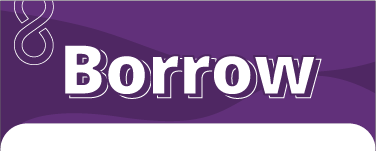
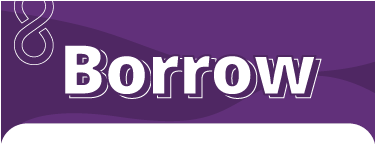
Fixed header and coin problems

Changed region(s): [[0.0, 0.0, 1.0, 1.0]]

diff --git a/screens/HomeScreen.js b/screens/HomeScreen.js
@@ -104,7 +104,6 @@ export default function HomeScreen({ navigation }) {
   }
 
   return (
-    <View style={styles.container}>
       <ScrollView
         style={{ backgroundColor: colors.white }}
         showsVerticalScrollIndicator={false}
@@ -237,21 +236,17 @@ export default function HomeScreen({ navigation }) {
           </View>
         </View>
       </ScrollView>
-    </View>
   );
 }
 
 const styles = StyleSheet.create({
-  container: {
-    flex: 1,
-  },
   headerContainer: {
     flex: 1,
   },
   header: {
     flex: 1,
     flexDirection: "row",
-    width: Dimensions.get("window").width,
+    width: Dimensions.get("screen").width+2,
     justifyContent: "center",
     alignItems: "center",
     height: 150,
@@ -259,6 +254,7 @@ const styles = StyleSheet.create({
     // marginTop: Constants.statusBarHeight,
     marginBottom: 32,
     padding: 20,
+    backgroundColor: 'red'
   },
   welcomeContainer: {
     flex: 1,

diff --git a/screens/return-screens/ReturnStatusScreen.js b/screens/return-screens/ReturnStatusScreen.js
@@ -6,6 +6,7 @@ import {
   TouchableOpacity,
   ScrollView,
   Image,
+  Dimensions,
 } from "react-native";
 import colors from "../../assets/colors";
 import { globalStyles } from "../../assets/globalStyles";
@@ -178,7 +179,10 @@ export default function ReturnStatusScreen({ navigation }) {
 
   return (
     <ScrollView style={styles.container}>
-      <Image source={require("../../assets/AppImages/returnHeader.png")} />
+      <Image 
+        source={require("../../assets/AppImages/returnHeader.png")} 
+        style={{ width: Dimensions.get("window").width+4, alignSelf: 'center' }}
+      />
 
       {/* <Text style={globalStyles.header}>Return</Text> */}
       <View style={styles.box}>
@@ -220,6 +224,7 @@ const data = [
 const styles = StyleSheet.create({
   container: {
     backgroundColor: "#fff",
+    
   },
   box: {
     borderWidth: 2,

diff --git a/screens/return-screens/ReturnQRScreen.js b/screens/return-screens/ReturnQRScreen.js
@@ -45,7 +45,7 @@ export default function ReturnQRScreen({ navigation }) {
 
   return (
     
-    <View style={{ marginTop: Constants.statusBarHeight }}>
+    <View>
       <ScrollView
         style={{ backgroundColor: colors.white }}
         showsVerticalScrollIndicator={false}
@@ -53,7 +53,7 @@ export default function ReturnQRScreen({ navigation }) {
         <View style={styles.container}>
           <Image
             source={require("../../assets/AppImages/returnHeader.png")}
-            style={{ width: Dimensions.get("window").width }}
+            style={{ width: Dimensions.get("window").width+4 }}
           />
           <View style={styles.box}>
             <Image source={require("../../assets/AppImages/returnPicture.png")} />

diff --git a/screens/borrow-screens/BorrowSuccessfulScreen.js b/screens/borrow-screens/BorrowSuccessfulScreen.js
@@ -30,7 +30,7 @@ export default function BorrowSuccessfulScreen({ route, navigation }) {
       <ScrollView style={styles.container} showsVerticalScrollIndicator={false}>
         <Image
           source={require("../../assets/AppImages/borrowHeader.png")}
-          style={{ width: Dimensions.get("window").width, marginBottom: 50 }}
+          style={{ width: Dimensions.get("window").width+4, marginBottom: 50 }}
         />
         <SuccessBox numCups={numCups} numContainers={numContainers} />
         <FooterText />

diff --git a/screens/borrow-screens/BorrowSelectionScreen.js b/screens/borrow-screens/BorrowSelectionScreen.js
@@ -129,7 +129,7 @@ export default function BorrowSelectionScreen({ navigation, route }) {
         <View style={styles.container}>
           <Image
             source={require("../../assets/AppImages/borrowHeader.png")}
-            style={{ width: Dimensions.get("window").width, marginBottom: 50 }}
+            style={{ width: Dimensions.get("window").width+4, marginBottom: 50 }}
           />
           <View style={styles.box}>
             <Text style={styles.storeName}>{stall}</Text>

diff --git a/screens/return-screens/ReturnSuccessfulScreen.js b/screens/return-screens/ReturnSuccessfulScreen.js
@@ -35,7 +35,7 @@ export default function ReturnSuccessfulScreen({ route }) {
       <ScrollView style={styles.container} showsVerticalScrollIndicator={false}>
         <Image
           source={require("../../assets/AppImages/returnHeader.png")}
-          style={{ width: Dimensions.get("window").width, marginBottom: 50 }}
+          style={{ width: Dimensions.get("window").width+4, alignSelf: "center", marginBottom: 50 }}
         />
         <SuccessBox
           numCups={numCups}

diff --git a/screens/byo-screens/BYOSuccessScreen.js b/screens/byo-screens/BYOSuccessScreen.js
@@ -34,7 +34,7 @@ export default function BYOSuccessScreen({ route }) {
       <ScrollView style={styles.container} showsVerticalScrollIndicator={false}>
         <Image
           source={require("../../assets/AppImages/byoHeader.png")}
-          style={{ width: Dimensions.get("window").width, marginBottom: 50 }}
+          style={{ width: Dimensions.get("window").width+4, marginBottom: 50 }}
         />
         <SuccessBox
           numCups={numCups}

diff --git a/screens/borrow-screens/BorrowUnsuccessfulScreen.js b/screens/borrow-screens/BorrowUnsuccessfulScreen.js
@@ -14,7 +14,7 @@ export default function BorrowUnsuccessfulScreen() {
     <ScrollView style={styles.container} showsVerticalScrollIndicator={false}>
       <Image
         source={require("../../assets/AppImages/borrowHeader.png")}
-        style={{ width: Dimensions.get("window").width, marginBottom: 50 }}
+        style={{ width: Dimensions.get("window").width+4, marginBottom: 50 }}
       />
       <UnsuccessBox />
     </ScrollView>

diff --git a/screens/return-screens/ReturnUnsuccessfulScreen.js b/screens/return-screens/ReturnUnsuccessfulScreen.js
@@ -14,7 +14,7 @@ export default function ReturnUnsuccessfulScreen() {
     <ScrollView style={styles.container} showsVerticalScrollIndicator={false}>
       <Image
         source={require("../../assets/AppImages/returnHeader.png")}
-        style={{ width: Dimensions.get("window").width, marginBottom: 50 }}
+        style={{ width: Dimensions.get("window").width+4, marginBottom: 50 }}
       />
       <UnsuccessBox />
     </ScrollView>

diff --git a/screens/byo-screens/BYOSelectionScreen.js b/screens/byo-screens/BYOSelectionScreen.js
@@ -122,7 +122,7 @@ export default function BYOSelectionScreen({ navigation, route }) {
         <View style={styles.container}>
           <Image
             source={require("../../assets/AppImages/byoHeader.png")}
-            style={{ width: Dimensions.get("window").width, marginBottom: 50 }}
+            style={{ width: Dimensions.get("window").width+4, marginBottom: 50 }}
           />
 
           <View style={styles.box}>

diff --git a/screens/byo-screens/BYOUnsuccessfulScree.js b/screens/byo-screens/BYOUnsuccessfulScree.js
@@ -25,7 +25,7 @@ export default function BYOUnsuccessfulScreen() {
       <View style={styles.container}>
         <Image
           source={require("../../assets/AppImages/byoHeader.png")}
-          style={{ width: Dimensions.get("window").width, marginBottom: 50 }}
+          style={{ width: Dimensions.get("window").width+4, marginBottom: 50 }}
         />
         <UnsuccessBox />
       </View>

diff --git a/screens/borrow-screens/BorrowQRScreen.js b/screens/borrow-screens/BorrowQRScreen.js
@@ -83,7 +83,7 @@ export default function BorrowQRScreen({ navigation }) {
     <View style={styles.container}>
       <Image
         source={require("../../assets/AppImages/borrowHeader.png")}
-        style={{ width: Dimensions.get("window").width }}
+        style={{ width: Dimensions.get("window").width+4 }}
       />
       <View
         style={{
